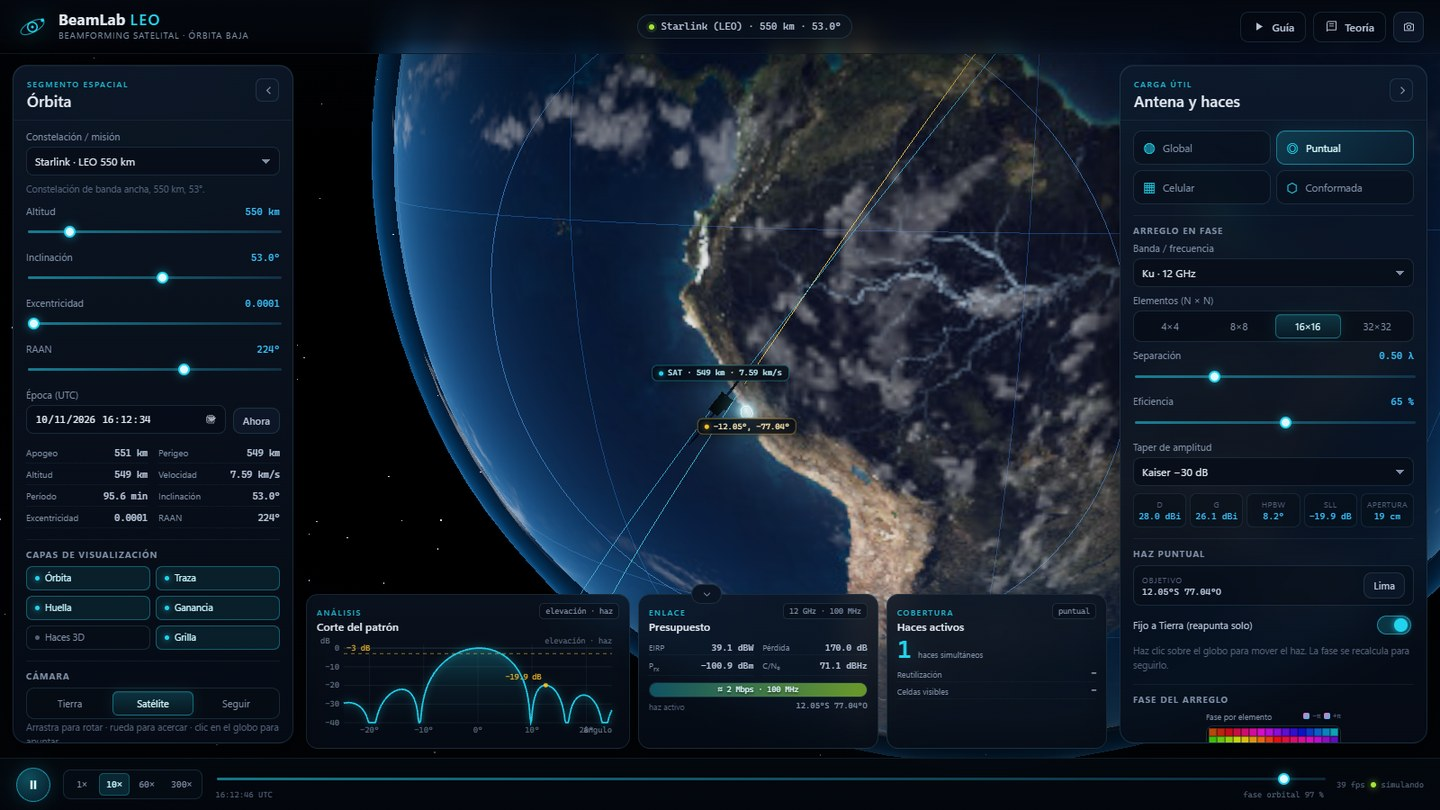
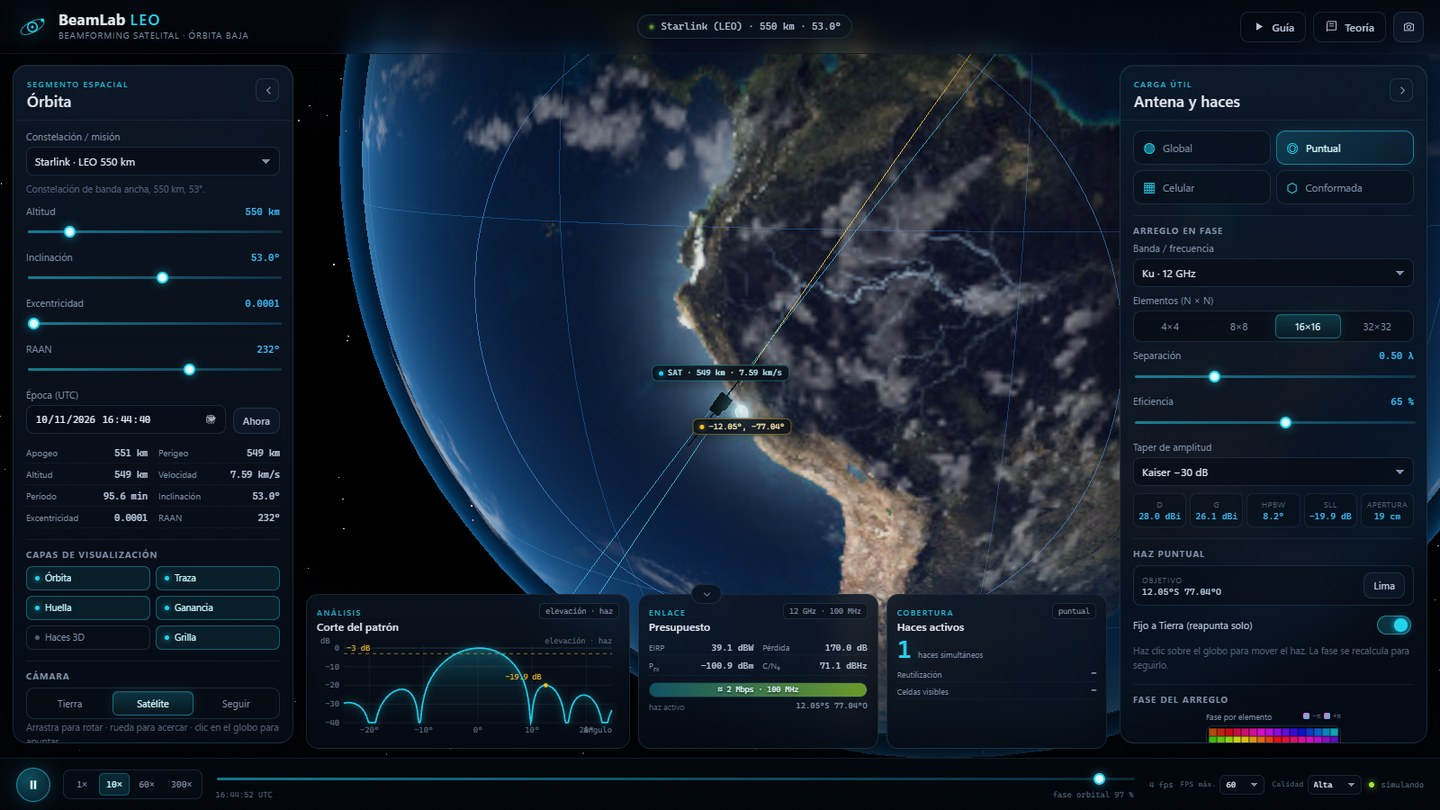
feat(perf): add FPS cap and quality presets

diff --git a/src/main.ts b/src/main.ts
@@ -4,7 +4,7 @@ import * as THREE from 'three';
 import { Engine } from './engine';
 import { SceneView, type Textures } from './scene';
 import { UI, type ToggleKey, type UIHandlers } from './ui';
-import { defaultState, type CameraMode, type Mode, type SimState } from './state';
+import { defaultState, type CameraMode, type Mode, type Quality, type SimState } from './state';
 import { elementsOverPoint, presetById } from './core/presets';
 import { DEG, R_EARTH } from './core/constants';
 import { anglesForGroundPoint } from './core/geometry';
@@ -24,7 +24,11 @@ class App {
 
   private lastTick = 0;
   private fps = 60;
+  private fpsFrames = 0;
+  private fpsWindowStart = 0;
   private uiAccum = 0;
+  private nextFrame = 0;
+  renderedFrames = 0;
 
   constructor() {
     this.state = defaultState();
@@ -146,10 +150,36 @@ class App {
       this.scene?.capture();
       this.ui.toast('Captura guardada.');
     },
+    setFpsCap: (cap) => this.setFpsCap(cap),
+    setQuality: (q) => this.setQuality(q),
   };
 
-  private setMode(mode: Mode) {
-    const prev = this.state.mode;
+  private setFpsCap(cap: number) {
+    this.state.fpsCap = cap;
+    this.nextFrame = 0;
+    this.persistPerf();
+    this.ui.syncControls(this.state);
+  }
+
+  private setQuality(quality: Quality) {
+    this.state.quality = quality;
+    this.scene?.setQuality(quality);
+    this.persistPerf();
+    this.ui.syncControls(this.state);
+    const label = quality === 'high' ? 'alta' : quality === 'medium' ? 'media' : 'baja';
+    this.ui.toast(`Calidad ${label} · ${quality === 'high' ? 'bloom activo' : 'sin bloom'}`);
+  }
+
+  private persistPerf() {
+    try {
+      localStorage.setItem('beamlab:fpsCap', String(this.state.fpsCap));
+      localStorage.setItem('beamlab:quality', this.state.quality);
+    } catch {
+      // almacenamiento no disponible (modo privado, etc.)
+    }
+  }
+
+  private setMode(mode: Mode) {    const prev = this.state.mode;
     this.engine.setMode(mode);
     if (prev !== mode && (mode === 'cellular' || mode === 'shaped')) {
       if (mode === 'cellular') {
@@ -287,6 +317,7 @@ class App {
     this.scene = new SceneView(canvas, textures, (lat, lon) => this.pick(lat, lon), (lat, lon, x, y) => this.hover(lat, lon, x, y));
     this.scene.setCamera('earth');
     this.scene.setViewToEci(this.engine.derived.sat.r);
+    this.scene.setQuality(this.state.quality);
     setProgress(100, 'Listo · iniciando simulación');
 
     this.engine.update();
@@ -300,9 +331,13 @@ class App {
     });
 
     document.addEventListener('visibilitychange', () => {
+      this.nextFrame = 0;
       this.lastTick = performance.now();
+      this.fpsWindowStart = performance.now();
+      this.fpsFrames = 0;
     });
     this.lastTick = performance.now();
+    this.fpsWindowStart = performance.now();
     requestAnimationFrame(this.loop);
   }
 
@@ -377,15 +412,33 @@ class App {
   }
 
   private loop = (t: number) => {
+    const cap = this.state.fpsCap;
+    if (cap > 0) {
+      const interval = 1000 / cap;
+      if (t + 1.0 < this.nextFrame) {
+        requestAnimationFrame(this.loop);
+        return;
+      }
+      this.nextFrame = t + interval;
+    }
+
     const dt = Math.min(0.06, Math.max(0, (t - this.lastTick) / 1000));
     this.lastTick = t;
-    this.fps = this.fps * 0.92 + (1 / Math.max(dt, 1e-3)) * 0.08;
 
     if (this.state.playing && dt > 0) {
       this.state.simTime += dt * 1000 * this.state.speed;
     }
     this.engine.update(t);
     this.scene?.update(this.state, this.engine.derived, dt);
+    this.renderedFrames++;
+
+    // FPS reales en ventana de 500 ms (no depende del dt limitado).
+    this.fpsFrames++;
+    if (t - this.fpsWindowStart >= 500) {
+      this.fps = (this.fpsFrames * 1000) / Math.max(1, t - this.fpsWindowStart);
+      this.fpsFrames = 0;
+      this.fpsWindowStart = t;
+    }
 
     this.uiAccum += dt;
     if (this.uiAccum >= 0.12) {

diff --git a/src/ui.ts b/src/ui.ts
@@ -11,7 +11,7 @@ import { ORBIT_PRESETS } from './core/presets';
 import type { RegionId } from './core/regions';
 import { drawPatternChart, drawPhaseMap, type PatternPoint } from './charts';
 import { BEAM_HEX, REUSE_LABELS } from './palette';
-import type { CameraMode, Derived, Mode, PhaseView, SimState } from './state';
+import type { CameraMode, Derived, Mode, PhaseView, Quality, SimState } from './state';
 
 export type ToggleKey =
   | 'showOrbit'
@@ -44,6 +44,8 @@ export interface UIHandlers {
   synthesize(): void;
   setPtx(w: number): void;
   screenshot(): void;
+  setFpsCap(cap: number): void;
+  setQuality(quality: Quality): void;
 }
 
 interface TourStep {
@@ -212,6 +214,13 @@ export class UI {
       const cur = this.state.simTime;
       const k = Math.round((cur - base) / T);
       this.h.setTime(base + k * T);
+    });
+
+    ($('fps-cap') as HTMLSelectElement).addEventListener('change', (e) => {
+      this.h.setFpsCap(Number((e.target as HTMLSelectElement).value));
+    });
+    ($('quality') as HTMLSelectElement).addEventListener('change', (e) => {
+      this.h.setQuality((e.target as HTMLSelectElement).value as Quality);
     });
 
     for (const b of document.querySelectorAll<HTMLButtonElement>('#modes [data-mode]')) {
@@ -412,6 +421,8 @@ export class UI {
       $('shape-radius-val').textContent = `${s.shapedRadiusKm} km`;
       ($('cell-region') as HTMLSelectElement).value = s.region;
       ($('cell-reuse') as HTMLSelectElement).value = String(s.reuse);
+      ($('fps-cap') as HTMLSelectElement).value = String(s.fpsCap);
+      ($('quality') as HTMLSelectElement).value = s.quality;
 
       $('block-spot').hidden = s.mode !== 'spot';
       $('block-cellular').hidden = s.mode !== 'cellular';
@@ -549,7 +560,7 @@ export class UI {
   }
 
   setFps(v: number) {
-    this.el('fps').textContent = `${v.toFixed(0)} fps`;
+    this.el('fps').textContent = v > 0 ? `${v.toFixed(0)} fps` : '—';
   }
 
   toast(msg: string, error = false) {

diff --git a/src/styles.css b/src/styles.css
@@ -659,8 +659,24 @@ input[type="range"]::-moz-range-thumb { width: 12px; height: 12px; background: #
 .timeline-wrap { flex: 1; display: flex; flex-direction: column; gap: 2px; }
 #timeline { height: 16px; }
 .timeline-meta { display: flex; justify-content: space-between; font-family: var(--mono); font-size: 9px; color: var(--faint); }
-.time-right { display: flex; align-items: center; gap: 6px; font-family: var(--mono); font-size: 9px; color: var(--faint); white-space: nowrap; }
-.fps { color: var(--faint); }
+.time-right { display: flex; align-items: center; gap: 8px; font-family: var(--mono); font-size: 9px; color: var(--faint); white-space: nowrap; }
+.fps { color: var(--faint); min-width: 30px; text-align: right; }
+.perf-select { display: flex; align-items: center; gap: 4px; }
+.perf-select > span { font-size: 9px; color: var(--faint); letter-spacing: 0.04em; white-space: nowrap; }
+.perf-select select {
+  width: auto;
+  height: 24px;
+  padding: 0 17px 0 6px;
+  border-radius: 6px;
+  font-family: var(--mono);
+  font-size: 10px;
+  background:
+    linear-gradient(45deg, transparent 50%, var(--muted) 50%) calc(100% - 10px) 9px / 4px 4px no-repeat,
+    linear-gradient(135deg, var(--muted) 50%, transparent 50%) calc(100% - 6px) 9px / 4px 4px no-repeat,
+    rgba(6, 13, 24, 0.8);
+}
+#fps-cap { width: 54px; }
+#quality { width: 64px; }
 .status-dot { width: 6px; height: 6px; border-radius: 50%; background: var(--lime); box-shadow: 0 0 8px var(--lime); }
 .status-dot.paused { background: var(--amber); box-shadow: 0 0 8px var(--amber); }
 
@@ -830,6 +846,7 @@ input[type="range"]::-moz-range-thumb { width: 12px; height: 12px; background: #
 
 /* ---------- responsive ---------- */
 @media (max-width: 1280px) {
+  .perf-select > span { display: none; }
   .panel-left { width: 288px; }
   .panel-right { width: 320px; }
   .dock { left: 314px; right: 346px; }

diff --git a/src/state.ts b/src/state.ts
@@ -7,6 +7,7 @@ import type { RegionId } from './core/regions';
 
 export type Mode = 'global' | 'spot' | 'cellular' | 'shaped';
 export type CameraMode = 'earth' | 'sat' | 'follow';
+export type Quality = 'high' | 'medium' | 'low';
 
 export interface PhaseView {
   phases: Float64Array;
@@ -64,12 +65,27 @@ export interface SimState {
   rxGainDbi: number;
   noiseFigureDb: number;
   bandwidthMHz: number;
+  fpsCap: number;
+  quality: Quality;
   tourStep: number;
 }
 
 export function defaultState(): SimState {
   const epoch = Math.floor(Date.now() / 1000) * 1000;
   const orbit = elementsOverPoint(550, 53, -12.05, -77.04, epoch, 2.5, 0.0001);
+  let fpsCap = 60;
+  let quality: Quality = 'high';
+  try {
+    const rawCap = localStorage.getItem('beamlab:fpsCap');
+    if (rawCap !== null) {
+      const n = Number(rawCap);
+      if ([30, 45, 60, 75, 120, 0].includes(n)) fpsCap = n;
+    }
+    const rawQuality = localStorage.getItem('beamlab:quality');
+    if (rawQuality === 'high' || rawQuality === 'medium' || rawQuality === 'low') quality = rawQuality;
+  } catch {
+    // almacenamiento no disponible (modo privado, etc.)
+  }
   return {
     presetId: 'starlink',
     orbit,
@@ -104,6 +120,8 @@ export function defaultState(): SimState {
     rxGainDbi: 0,
     noiseFigureDb: 2,
     bandwidthMHz: 100,
+    fpsCap,
+    quality,
     tourStep: 0,
   };
 }

diff --git a/src/scene.ts b/src/scene.ts
@@ -5,7 +5,7 @@ import { RenderPass } from 'three/addons/postprocessing/RenderPass.js';
 import { UnrealBloomPass } from 'three/addons/postprocessing/UnrealBloomPass.js';
 import { OutputPass } from 'three/addons/postprocessing/OutputPass.js';
 import { DEG, EARTH_UNITS, R_EARTH } from './core/constants';
-import type { Derived, SimState } from './state';
+import type { Derived, Quality, SimState } from './state';
 import { footprintRing, type AntennaFrame } from './core/geometry';
 import { groundTrack, maxCentralAngle, orbitPathEci } from './core/orbit';
 import type { Vec3 } from './core/vec';
@@ -926,6 +926,17 @@ export class SceneView {
     if (mode === 'earth') {
       this.camera.position.set(0, -16.5, 8.6);
     }
+  }
+
+  /** Ajusta resolución de render y bloom según la potencia de la GPU. */
+  setQuality(quality: Quality): void {
+    const dpr = window.devicePixelRatio || 1;
+    const ratio = quality === 'high' ? Math.min(dpr, 1.75) : quality === 'medium' ? Math.min(dpr, 1.25) : 1;
+    this.renderer.setPixelRatio(ratio);
+    this.renderer.setSize(window.innerWidth, window.innerHeight);
+    this.composer.setPixelRatio(ratio);
+    this.composer.setSize(window.innerWidth, window.innerHeight);
+    this.bloom.enabled = quality === 'high';
   }
 
   /** Centra la vista en el punto subsatelital (dirección ECI del satélite). */

diff --git a/index.html b/index.html
@@ -349,7 +349,26 @@
           </div>
         </div>
         <div class="time-right">
-          <span class="fps" id="fps">—</span>
+          <span class="fps" id="fps" title="FPS reales. El límite es un máximo: si la GPU no alcanza, verás menos.">—</span>
+          <label class="perf-select" title="Límite máximo de fotogramas por segundo. 60 por defecto.">
+            <span>FPS máx.</span>
+            <select id="fps-cap">
+              <option value="30">30</option>
+              <option value="45">45</option>
+              <option value="60" selected>60</option>
+              <option value="75">75</option>
+              <option value="120">120</option>
+              <option value="0">∞</option>
+            </select>
+          </label>
+          <label class="perf-select" title="Calidad gráfica: resolución de render y bloom">
+            <span>Calidad</span>
+            <select id="quality">
+              <option value="high" selected>Alta</option>
+              <option value="medium">Media</option>
+              <option value="low">Baja</option>
+            </select>
+          </label>
           <span class="status-dot" id="status-dot"></span>
           <span id="status-text">simulando</span>
         </div>

diff --git a/README.md b/README.md
@@ -51,6 +51,17 @@ npm test
 
 > El proyecto usa Three.js para el globo 3D, Vite + TypeScript para la app y KaTeX para las ecuaciones. No necesita conexión a internet una vez instalado.
 
+### Rendimiento
+
+La barra inferior tiene dos controles que se guardan en el navegador:
+
+- **FPS máx.**: 30, 45, **60 (por defecto)**, 75, 120 o ∞. Es un **máximo**: si la GPU no alcanza, el contador mostrará menos.
+- **Calidad**: **Alta** (bloom + 1,75×), **Media** (sin bloom + 1,25×) o **Baja** (sin bloom + 1×).
+
+Para una PC de laboratorio: **30 fps + Baja**. En una GPU dedicada: **60 fps + Alta**. El límite no acelera una PC que ya está por debajo; para eso baja la calidad, usa un arreglo más pequeño o desactiva capas (ganancia, haces 3D).
+
+> Las capturas de este README se tomaron con render por software (sin GPU), por eso el contador muestra pocos FPS. En una GPU real el mismo escenario sube bastante; el límite de 60 es un techo, no una promesa.
+
 ### Atajos
 
 | Tecla | Acción |

diff --git a/docs/GUION_EXPOSICION.md b/docs/GUION_EXPOSICION.md
@@ -148,7 +148,7 @@ Porque la fase se envuelve en $[-\pi,\pi]$. Varios ciclos completos se ven como 
 |---|---|
 | El satélite ya no ve Lima | Pulsa **Ahora**, o cambia a **Celular/Conformada** (se reposiciona y pausa). |
 | La síntesis da error de cobertura | Baja el radio a 80–100 km, o sube a 20×20/32×32. |
-| La app se ve lenta | Baja a 4×4 u 8×8, desactiva **Ganancia**, cierra otras pestañas. |
+| La app se ve lenta | Baja **FPS máx. a 30** y **Calidad a Baja**, usa 4×4 u 8×8 y desactiva **Ganancia**. |
 | Oculté un panel y no sé cómo volver | Pestaña lateral **Órbita** / **Antena**, o teclas `[` / `]`. |
 | No hay texturas (globo azul) | Ocurre si se abre `dist/index.html` con `file://`; usa `npm run preview` o `npm run dev`. |
 | El proyector no muestra el 3D | Ten las capturas de `docs/img/` como respaldo y explica con ellas. |

diff --git a/docs/CHECKLIST.md b/docs/CHECKLIST.md
@@ -13,6 +13,7 @@
 - [ ] Cargar la laptop y llevar cargador.
 - [ ] Probar el proyector y la resolución (ideal 1600×900 o 1920×1080).
 - [ ] Abrir la app en Edge/Chrome a pantalla completa, zoom 100 %.
+- [ ] Dejar **FPS máx. 60** y **Calidad Alta** (o **30 / Baja** si la PC es débil).
 - [ ] Cerrar pestañas y aplicaciones que consuman GPU.
 - [ ] Verificar que el audio no sea necesario (la demo es visual).
 
@@ -37,7 +38,7 @@
 
 - [ ] Si falla la laptop: usar las capturas `docs/img/01-general.jpg` … `07-teoria.jpg`.
 - [ ] Si falla el proyector: explicar con la captura de `05-conformado.jpg` y el diagrama del patrón.
-- [ ] Si la app va lenta: 4×4 u 8×8, desactivar **Ganancia**, cerrar el navegador y reabrir.
+- [ ] Si la app va lenta: **FPS máx. 30**, **Calidad Baja**, 4×4 u 8×8, desactivar **Ganancia**.
 
 ## Después
 
